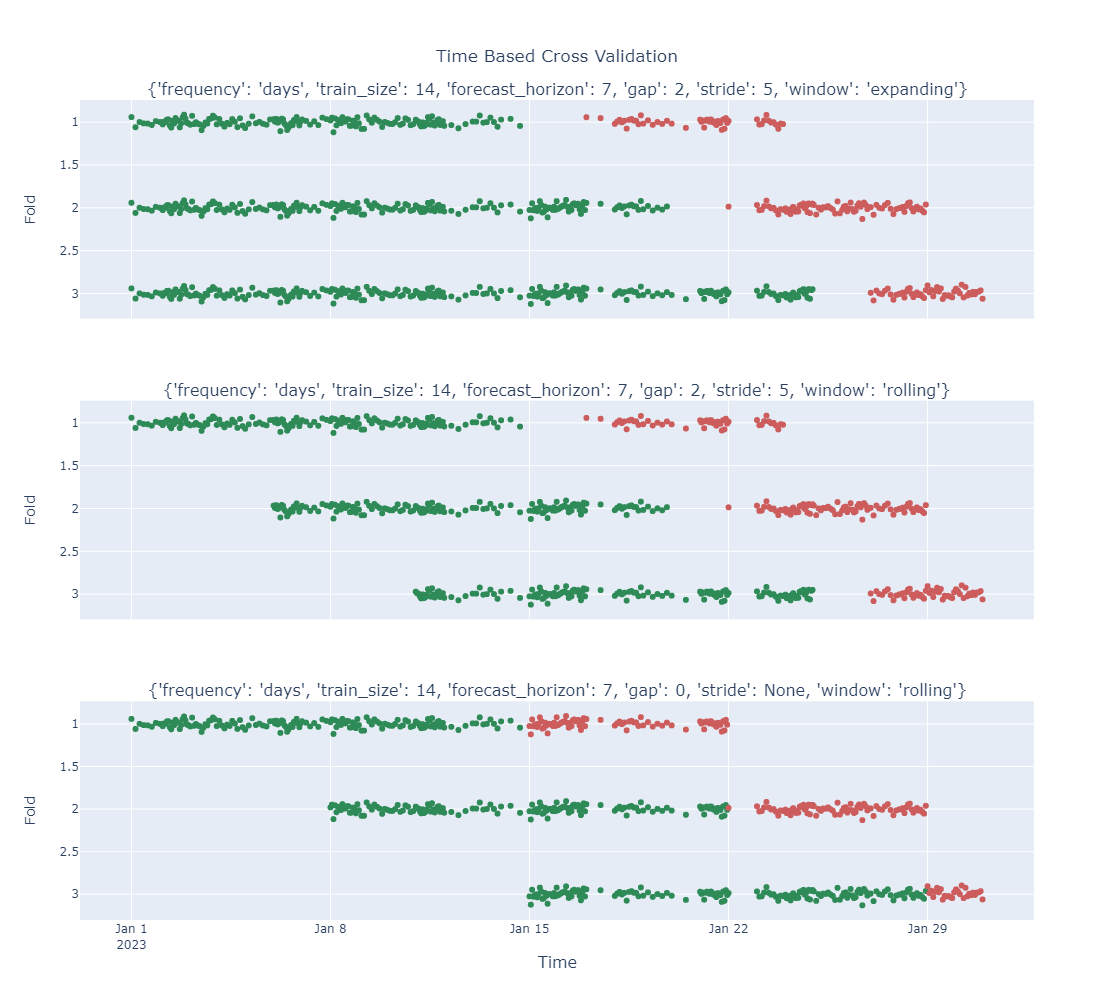
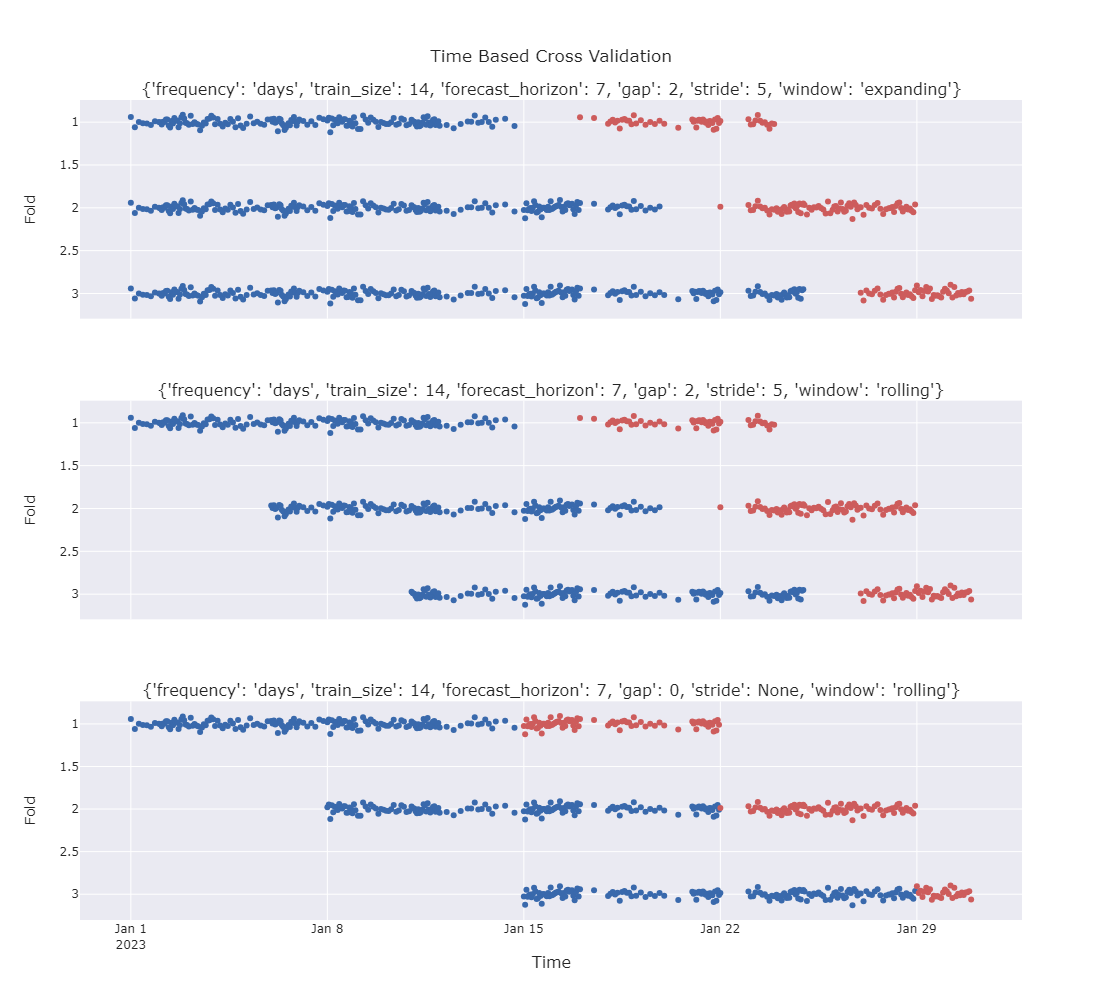
Docs: patch links (#33)
* colorblind friendly plot

* patch links

* ruff warning fix

* gha

diff --git a/docs/getting-started.md b/docs/getting-started.md
@@ -4,7 +4,7 @@ The following sections will guide you through the basic usage of the library.
 
 ## TimeBasedSplit
 
-The [`TimeBasedSplit`](../api/timebasedsplit/#timebasedcv.timebasedsplit.TimeBasedSplit) class allows to define a time based split with a given frequency, train size, test size, gap, stride and window type.
+The [`TimeBasedSplit`](api/timebasedsplit.md#timebasedcv.timebasedsplit.TimeBasedSplit) class allows to define a time based split with a given frequency, train size, test size, gap, stride and window type.
 
 ```python
 from timebasedcv import TimeBasedSplit
@@ -59,11 +59,11 @@ for X_train, X_forecast, y_train, y_forecast in tbs.split(X, y, time_series=time
 # Train: (30, 2), Forecast: (7, 2)
 ```
 
-Another optional parameter that can be passed to the `split` method is `return_splitstate`. If `True`, the method will return a [`SplitState`](api/splitstate/) dataclass which contains the "split" points for training and test, namely `train_start`, `train_end`, `forecast_start` and `forecast_end`. These can be useful if a particular logic needs to be applied to the data before training and/or forecasting.
+Another optional parameter that can be passed to the `split` method is `return_splitstate`. If `True`, the method will return a [`SplitState`](api/splitstate.md) dataclass which contains the "split" points for training and test, namely `train_start`, `train_end`, `forecast_start` and `forecast_end`. These can be useful if a particular logic needs to be applied to the data before training and/or forecasting.
 
 ## TimeBasedCVSplitter
 
-The [`TimeBasedCVSplitter`](../api/timebasedsplit/#timebasedcv.timebasedsplit.TimeBasedCVSplitter) class conforms with scikit-learn CV Splitters. In order to achieve such behaviour we combine the arguments of [`TimeBasedSplit`](../api/timebasedsplit/#timebasedcv.timebasedsplit.TimeBasedSplit) `__init__` and `split` methods, so that it is possible to restrict the arguments of
+The [`TimeBasedCVSplitter`](api/timebasedsplit.md#timebasedcv.timebasedsplit.TimeBasedCVSplitter) class conforms with scikit-learn CV Splitters. In order to achieve such behaviour we combine the arguments of [`TimeBasedSplit`](api/timebasedsplit.md#timebasedcv.timebasedsplit.TimeBasedSplit) `__init__` and `split` methods, so that it is possible to restrict the arguments of
 `split` and `get_n_splits` to the arrays to split (i.e. `X`, `y` and `groups`), which are the only arguments required by scikit-learn CV Splitters.
 
 That is because a CV Splitter needs to know a priori the number of splits and the `split` method shouldn't take any extra arguments as input other than the arrays to split.
@@ -148,112 +148,105 @@ Now let's plot train and forecasting splits with different split strategies (or 
 
 The green dots represent the train points, while the red dots represent the forecastng points.
 
-<img src="../img/cross-validation.png" align="center">
+![cross-validation](img/cross-validation.png)
 
-Here is the code to replicate the results:
+??? example "Code to generate the plot"
 
-```python
-configs = [
-    {
-        "frequency": "days",
-        "train_size": 14,
-        "forecast_horizon": 7,
-        "gap": 2,
-        "stride": 5,
-        "window": "expanding"
-    },
-    {
-        "frequency": "days",
-        "train_size": 14,
-        "forecast_horizon": 7,
-        "gap": 2,
-        "stride": 5,
-        "window": "rolling"
-    },
-    {
-        "frequency": "days",
-        "train_size": 14,
-        "forecast_horizon": 7,
-        "gap": 0,
-        "stride": None,
-        "window": "rolling"
-    }
-]
+    ```python
+    configs = [
+        {
+            "frequency": "days",
+            "train_size": 14,
+            "forecast_horizon": 7,
+            "gap": 2,
+            "stride": 5,
+            "window": "expanding"
+        },
+        {
+            "frequency": "days",
+            "train_size": 14,
+            "forecast_horizon": 7,
+            "gap": 2,
+            "stride": 5,
+            "window": "rolling"
+        },
+        {
+            "frequency": "days",
+            "train_size": 14,
+            "forecast_horizon": 7,
+            "gap": 0,
+            "stride": None,
+            "window": "rolling"
+        }
+    ]
 
-import plotly.graph_objects as go
-from plotly.subplots import make_subplots
+    import plotly.graph_objects as go
+    from plotly.subplots import make_subplots
 
-from timebasedcv import TimeBasedSplit
+    from timebasedcv import TimeBasedSplit
 
-fig = make_subplots(
-    rows=len(configs),
-    cols=1,
-    subplot_titles=[str(config) for config in configs],
-    shared_xaxes=True,
-    vertical_spacing=0.1,
-    x_title="Time",
-)
-
-for _row, config in enumerate(configs, start=1):
-
-    tbs = TimeBasedSplit(
-        **config,
+    fig = make_subplots(
+        rows=len(configs),
+        cols=1,
+        subplot_titles=[str(config) for config in configs],
+        shared_xaxes=True,
+        vertical_spacing=0.1,
+        x_title="Time",
     )
 
+    for _row, config in enumerate(configs, start=1):
 
-    fmt = "%Y-%m-%d"
-    for _fold, (train_forecast, split_state) in enumerate(tbs.split(X, time_series=time_series, return_splitstate=True), start=1):
+        tbs = TimeBasedSplit(**config)
+        fmt = "%Y-%m-%d"
 
-        train, forecast = train_forecast
+        for _fold, (train_forecast, split_state) in enumerate(tbs.split(X, time_series=time_series, return_splitstate=True), start=1):
 
-        ts = split_state.train_start.strftime(fmt)
-        te = split_state.train_end.strftime(fmt)
-        fs = split_state.forecast_start.strftime(fmt)
-        fe = split_state.forecast_end.strftime(fmt)
+            train, forecast = train_forecast
 
-        print(ts, te, fs, fe)
-        fig.add_trace(
-            go.Scatter(
-                x=time_series[time_series.between(ts, te, inclusive="left")],
-                y=train + _fold,
-                name=f"Train Fold {_fold}",
-                mode="markers",
-                marker={
-                    "color": "seagreen",
-                }
-            ),
-            row=_row,
-            col=1,
-        )
+            ts = split_state.train_start.strftime(fmt)
+            te = split_state.train_end.strftime(fmt)
+            fs = split_state.forecast_start.strftime(fmt)
+            fe = split_state.forecast_end.strftime(fmt)
 
-        fig.add_trace(
-            go.Scatter(
-                x=time_series[time_series.between(fs, fe, inclusive="left")],
-                y=forecast + _fold,
-                name=f"Forecast Fold {_fold}",
-                mode="markers",
-                marker={
-                    "color": "indianred",
-                }
-            ),
-            row=_row,
-            col=1,
-        )
+            print(ts, te, fs, fe)
+            fig.add_trace(
+                go.Scatter(
+                    x=time_series[time_series.between(ts, te, inclusive="left")],
+                    y=train + _fold,
+                    name=f"Train Fold {_fold}",
+                    mode="markers",
+                    marker={"color": "rgb(57, 105, 172)"}
+                ),
+                row=_row,
+                col=1,
+            )
 
-fig.update_layout(
-    title={
-        "text": "Time Based Cross Validation",
-        "y":0.95, "x":0.5,
-        "xanchor": "center",
-        "yanchor": "top"
-    },
-    showlegend=False,
-    height=1000,
-    **{
-        f"yaxis{i}": {"autorange": "reversed", "title": "Fold"}
-        for i in range(1, len(configs)+1)
-    }
-)
+            fig.add_trace(
+                go.Scatter(
+                    x=time_series[time_series.between(fs, fe, inclusive="left")],
+                    y=forecast + _fold,
+                    name=f"Forecast Fold {_fold}",
+                    mode="markers",
+                    marker={"color": "indianred"}
+                ),
+                row=_row,
+                col=1,
+            )
 
-fig.show()
-```
+    fig.update_layout(
+        title={
+            "text": "Time Based Cross Validation",
+            "y":0.95, "x":0.5,
+            "xanchor": "center",
+            "yanchor": "top"
+        },
+        showlegend=False,
+        height=1000,
+        **{
+            f"yaxis{i}": {"autorange": "reversed", "title": "Fold"}
+            for i in range(1, len(configs)+1)
+        }
+    )
+
+    fig.show()
+    ```

diff --git a/docs/index.md b/docs/index.md
@@ -1,8 +1,10 @@
 <img src="img/timebasedcv-logo.svg" width=185 height=185 align="right">
 
-![](https://img.shields.io/github/license/FBruzzesi/timebasedcv)
-<img src ="img/interrogate-shield.svg">
-[![Code style: black](https://img.shields.io/badge/code%20style-black-000000.svg)](https://github.com/psf/black)
+![license-shield](https://img.shields.io/github/license/FBruzzesi/timebasedcv)
+![interrogate-badge](img/interrogate-shield.svg)
+[![Ruff](https://img.shields.io/endpoint?url=https://raw.githubusercontent.com/astral-sh/ruff/main/assets/badge/v2.json)](https://github.com/astral-sh/ruff)
+![coverage-badge](img/coverage.svg)
+![versions-shield](https://img.shields.io/pypi/pyversions/timebasedcv)
 
 # Timebased Cross Validation
 
@@ -10,9 +12,7 @@
 
 ---
 
-**Documentation**: https://fbruzzesi.github.io/timebasedcv
-
-**Source Code**: https://github.com/fbruzzesi/timebasedcv
+[Documentation](https://fbruzzesi.github.io/timebasedcv) | [Repository](https://github.com/fbruzzesi/timebasedcv) | [Issue Tracker](https://github.com/fbruzzesi/timebasedcv/issues)
 
 ---
 
@@ -28,8 +28,8 @@ This codebase addresses such problem by providing a cross validation strategy ba
 
 We introduce two main classes:
 
-- [`TimeBasedSplit`](api/timebasedsplit/#timebasedcv.timebasedsplit.TimeBasedSplit): a class that allows to define a time based split with a given frequency, train size, test size, gap, stride and window type. It's core method `split` requires to pass a time series as input to create the boolean masks for train and test from the instance information defined above. Therefore it is not compatible with [scikit-learn CV Splitters](https://scikit-learn.org/stable/common_pitfalls.html#id3).
-- [`TimeBasedCVSplitter`](api/timebasedsplit/#timebasedcv.timebasedsplit.TimeBasedCVSplitter): a class that conforms with scikit-learn CV Splitters but requires to pass the time series as input to the instance. That is because a CV Splitter needs to know a priori the number of splits and the `split` method shouldn't take any extra arguments as input other than the arrays to split.
+- [`TimeBasedSplit`](api/timebasedsplit.md#timebasedcv.timebasedsplit.TimeBasedSplit): a class that allows to define a time based split with a given frequency, train size, test size, gap, stride and window type. It's core method `split` requires to pass a time series as input to create the boolean masks for train and test from the instance information defined above. Therefore it is not compatible with [scikit-learn CV Splitters](https://scikit-learn.org/stable/common_pitfalls.html#id3).
+- [`TimeBasedCVSplitter`](api/timebasedsplit.md#timebasedcv.timebasedsplit.TimeBasedCVSplitter): a class that conforms with scikit-learn CV Splitters but requires to pass the time series as input to the instance. That is because a CV Splitter needs to know a priori the number of splits and the `split` method shouldn't take any extra arguments as input other than the arrays to split.
 
 ## Installation
 
@@ -57,7 +57,7 @@ We introduce two main classes:
 
 ## Getting Started
 
-Please refer to the dedicated page [Getting Started](getting-started/).
+Please refer to the dedicated page [Getting Started](getting-started.md).
 
 ## License
 
